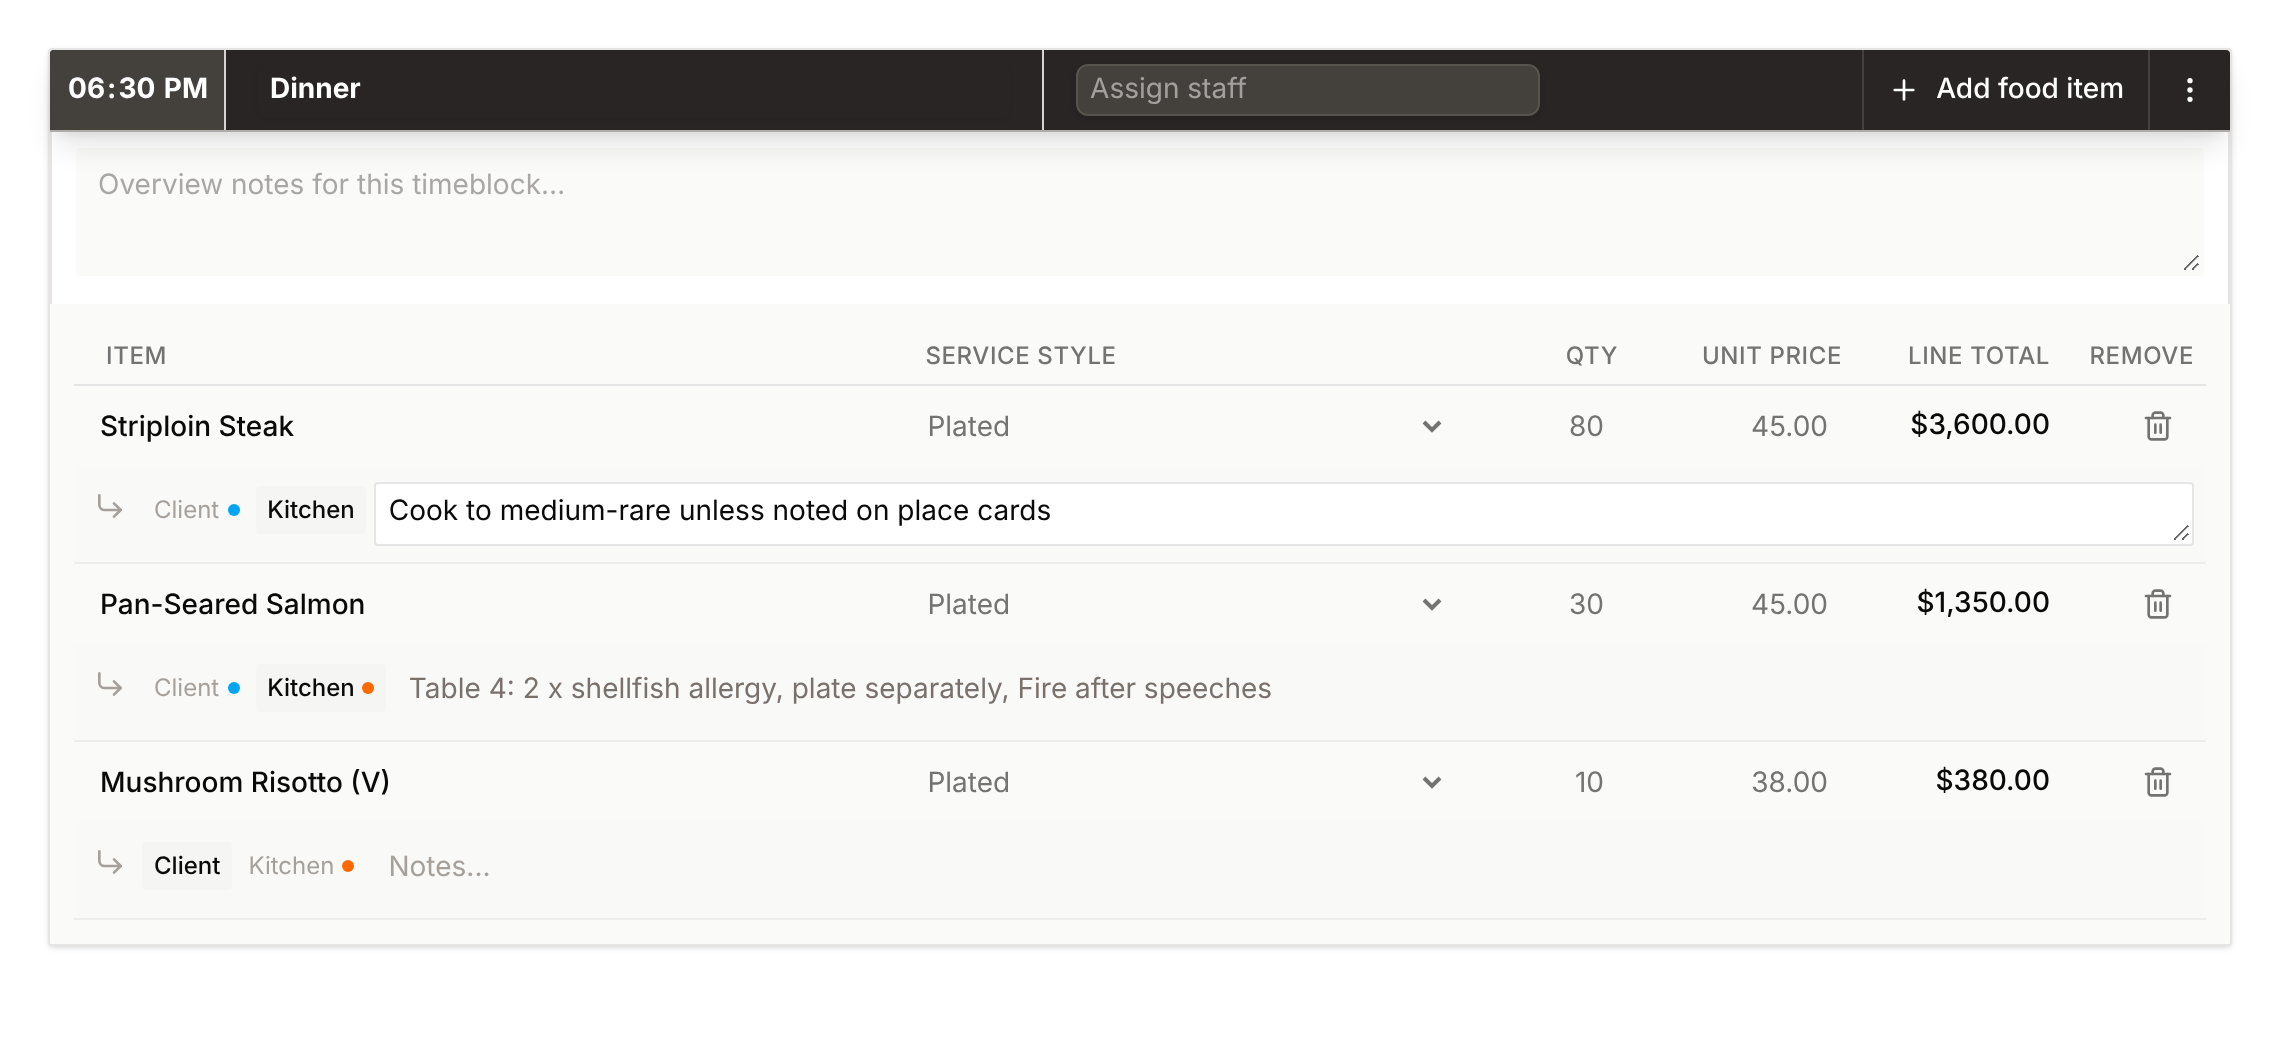
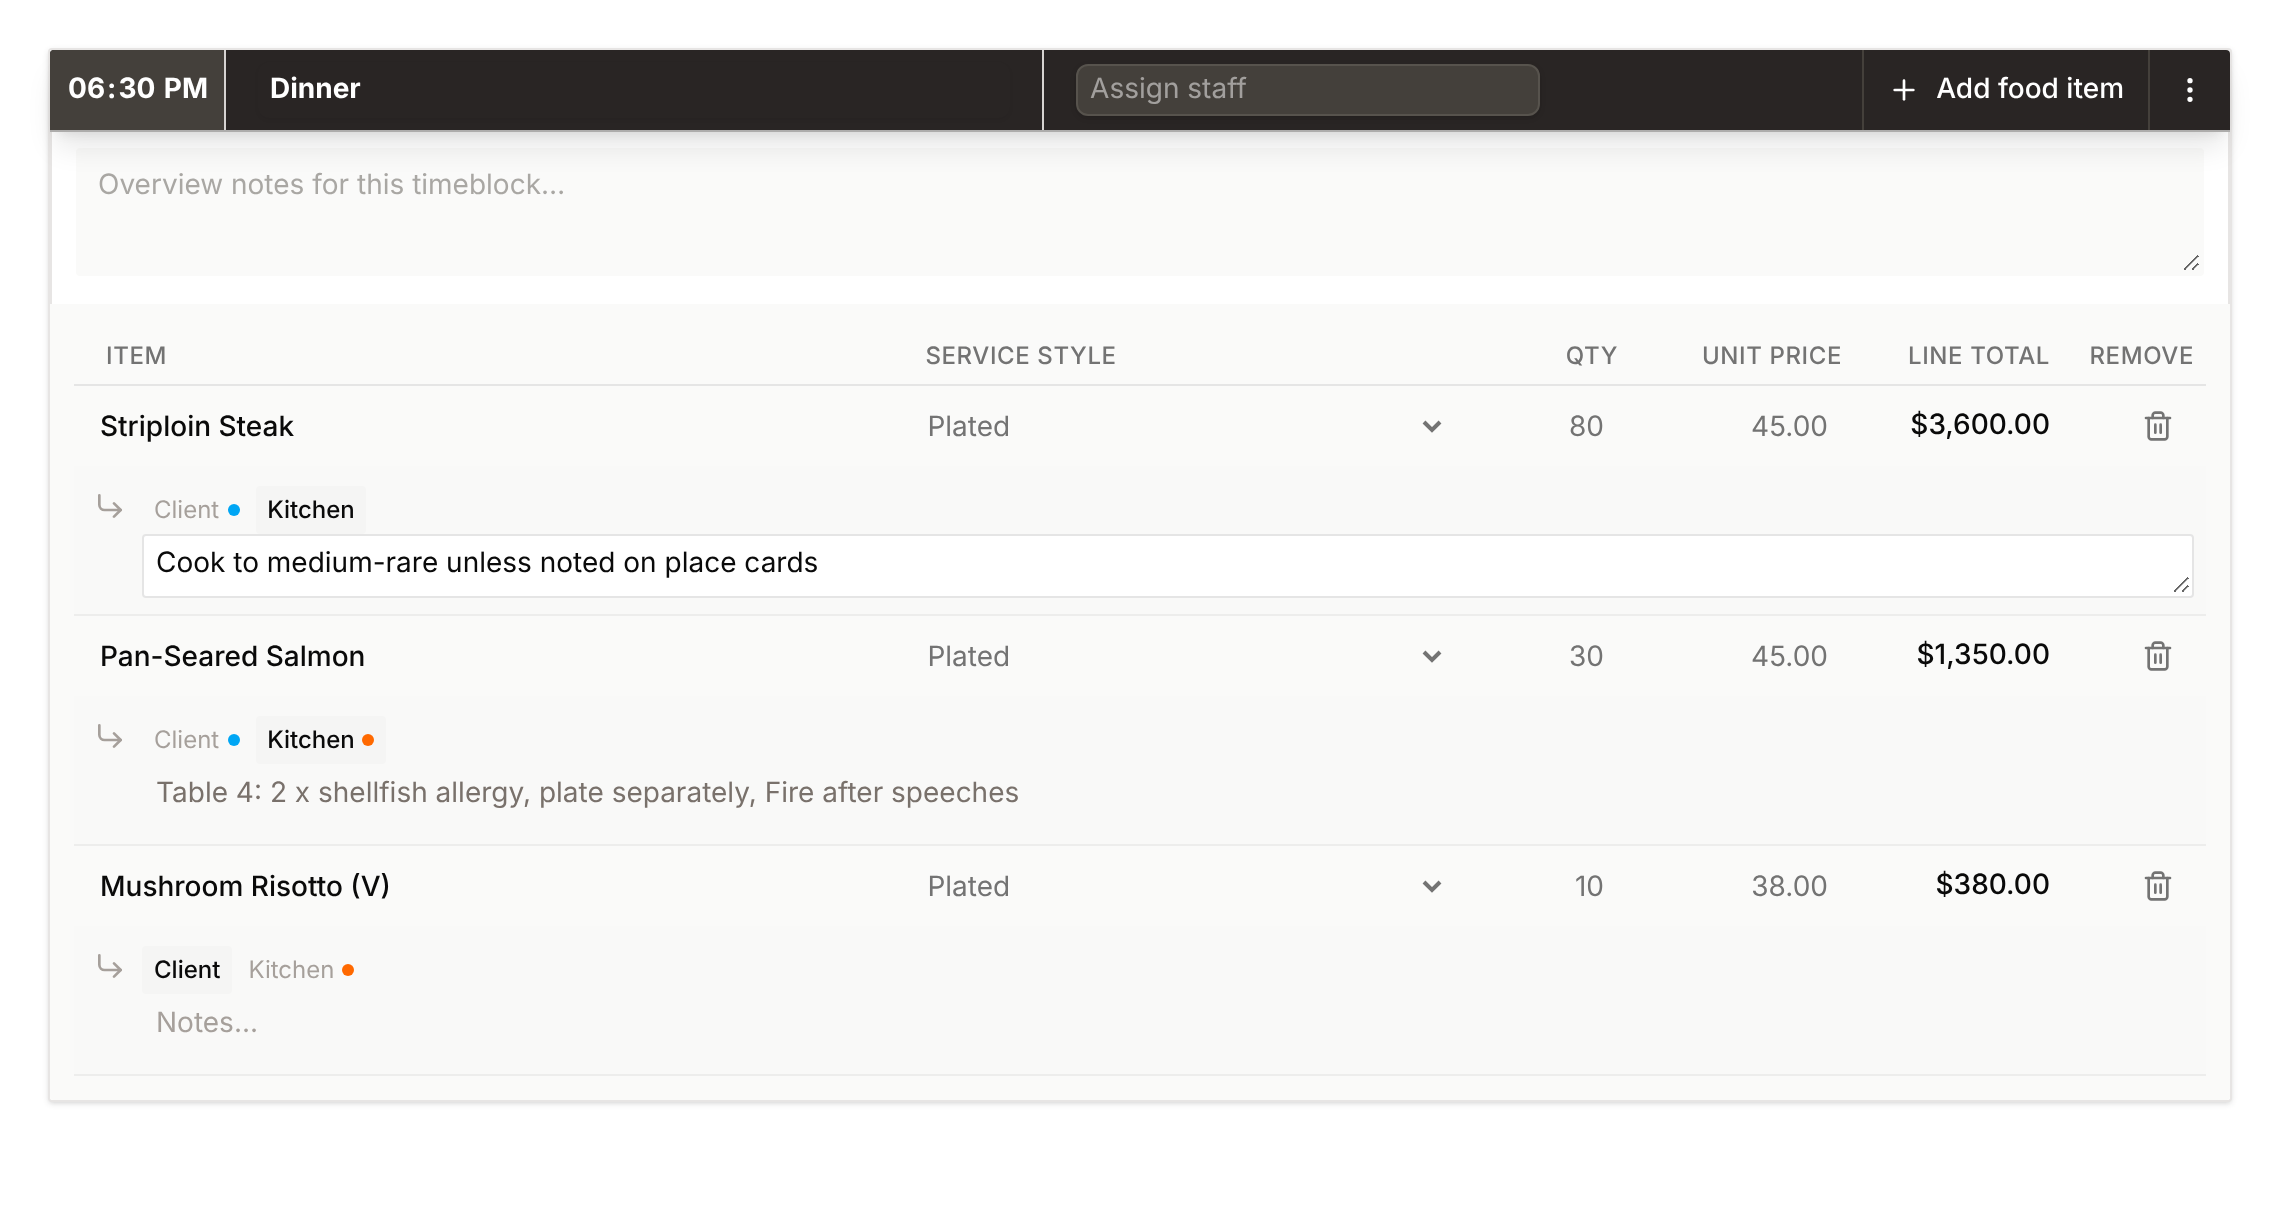
feat(food): show the note tabs above the food item note
Every note now starts at the same place, and an open note gets the full
width of the row. Updated the PR screenshots to match.

Claude-Session: https://claude.ai/code/session_01JL5f1rQMsH8p8YJPsNajNA

diff --git a/src/features/event-detail/sections/food-beverage-workspaces/PlanningWorkspaceTimeblocks/PlanningTimeblockItemNoteTabsRow.tsx b/src/features/event-detail/sections/food-beverage-workspaces/PlanningWorkspaceTimeblocks/PlanningTimeblockItemNoteTabsRow.tsx
@@ -51,44 +51,47 @@ export function PlanningTimeblockItemNoteTabsRow<TItem extends WorkspaceItemBase
     <div className="flex items-start gap-1 py-1">
       <ItemNoteExpandButton isEditing={isEditing} onToggle={toggleEditing} />
 
-      <div role="tablist" aria-label="Item notes" className="flex shrink-0 items-center gap-0.5 pt-0.5">
-        <ItemNoteTabButton
-          label="Client"
-          note={clientNote}
-          active={activeTab === "client"}
-          indicatorClassName="bg-sky-500"
-          onSelect={() => setActiveTab("client")}
-        />
-        {showsInternalNotePrompt(internalNote, activeTab) ? (
-          <button
-            type="button"
-            onClick={addInternalNote}
-            className="h-6 rounded-xs px-1.5 text-xs text-stone-400/80 transition-colors hover:text-orange-500"
-          >
-            Add kitchen note…
-          </button>
-        ) : (
+      {/* Tabs sit above the note so every note starts at the same place and an open note gets the full width. */}
+      <div className="flex min-w-0 flex-1 flex-col">
+        <div role="tablist" aria-label="Item notes" className="flex shrink-0 items-center gap-0.5 pt-0.5">
           <ItemNoteTabButton
-            label="Kitchen"
-            note={internalNote}
-            active={activeTab === "internal"}
-            indicatorClassName="bg-orange-500"
-            onSelect={() => setActiveTab("internal")}
+            label="Client"
+            note={clientNote}
+            active={activeTab === "client"}
+            indicatorClassName="bg-sky-500"
+            onSelect={() => setActiveTab("client")}
           />
-        )}
-      </div>
+          {showsInternalNotePrompt(internalNote, activeTab) ? (
+            <button
+              type="button"
+              onClick={addInternalNote}
+              className="h-6 rounded-xs px-1.5 text-xs text-stone-400/80 transition-colors hover:text-orange-500"
+            >
+              Add kitchen note…
+            </button>
+          ) : (
+            <ItemNoteTabButton
+              label="Kitchen"
+              note={internalNote}
+              active={activeTab === "internal"}
+              indicatorClassName="bg-orange-500"
+              onSelect={() => setActiveTab("internal")}
+            />
+          )}
+        </div>
 
-      <ItemNoteField
-        // Remount per tab so the textarea's draft belongs to the note it was typed into.
-        key={activeTab}
-        note={note}
-        label={NOTE_COPY[activeTab].label}
-        placeholder={NOTE_COPY[activeTab].placeholder}
-        isEditing={isEditing}
-        focusOnOpen={focusOnOpen}
-        onStartEdit={startEditing}
-        onSave={saveNote}
-      />
+        <ItemNoteField
+          // Remount per tab so the textarea's draft belongs to the note it was typed into.
+          key={activeTab}
+          note={note}
+          label={NOTE_COPY[activeTab].label}
+          placeholder={NOTE_COPY[activeTab].placeholder}
+          isEditing={isEditing}
+          focusOnOpen={focusOnOpen}
+          onStartEdit={startEditing}
+          onSave={saveNote}
+        />
+      </div>
     </div>
   )
 }
